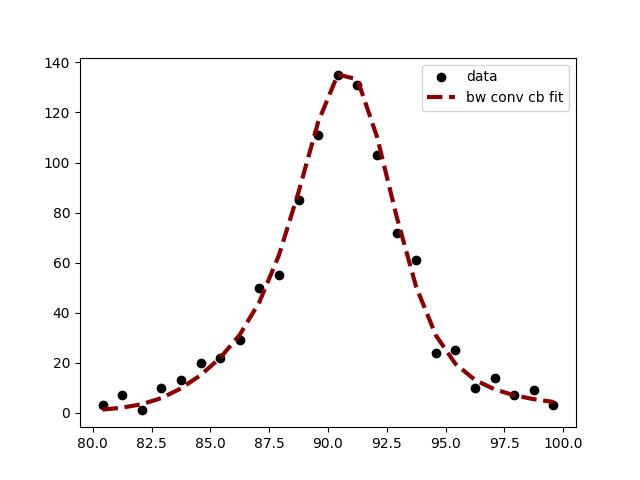
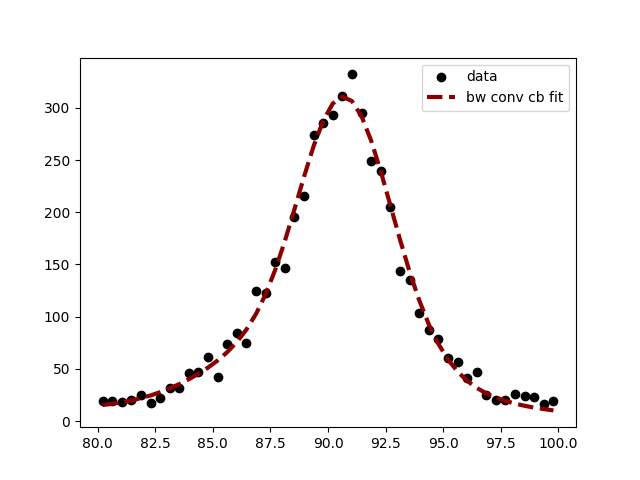
update

diff --git a/computer_vision_test/unet/train.py b/computer_vision_test/unet/train.py
@@ -8,6 +8,7 @@ from torch.nn import BCEWithLogitsLoss
 from torch.optim import Adam
 from torch.optim import AdamW
 from torch.utils.data import DataLoader
+import pytorch_lightning as pl
 from sklearn.model_selection import train_test_split
 from torchvision import transforms
 from imutils import paths
@@ -20,22 +21,29 @@ import os
 
 def main():
 
+    ## setup ##
+
+    # locate images and masks
     imagePaths = sorted(list(paths.list_images(config.PATH_IMAGE_DATASET)))
     maskPaths = sorted(list(paths.list_images(config.PATH_MASK_DATASET)))
 
+    # split the data
     split = train_test_split(imagePaths, maskPaths,
         test_size=config.TEST_SPLIT, random_state=42)
 
     (trainImages, testImages) = split[:2]
     (trainMasks, testMasks) = split[2:]
 
+    # make a list of images to use as test
     f = open(config.PATHS_TEST, "w")
     f.write("\n".join(testImages))
     f.close()
 
+    # define transformations
     transformations = transforms.Compose([transforms.ToPILImage(),
         transforms.Resize((config.INPUT_IMAGE_HEIGHT, config.INPUT_IMAGE_WIDTH)), transforms.ToTensor()])
 
+    # setup the datasets
     trainDS = SegmentationDataset(imagePaths=trainImages, maskPaths=trainMasks, transforms=transformations)
     testDS = SegmentationDataset(imagePaths=testImages, maskPaths=testMasks, transforms=transformations)
 
@@ -45,73 +53,22 @@ def main():
     trainLoader = DataLoader(trainDS, shuffle=True, batch_size=config.BATCH_SIZE, pin_memory=config.PIN_MEMORY, num_workers=os.cpu_count())
     testLoader = DataLoader(testDS, shuffle=False, batch_size=config.BATCH_SIZE, pin_memory=config.PIN_MEMORY, num_workers=os.cpu_count())
 
-    unet = UNet().to(config.DEVICE)
+    unet = UNet()
 
-    lossFunc = BCEWithLogitsLoss()
-    opt = Adam(unet.parameters(), lr=config.INIT_LR)
-
-    trainSteps = len(trainDS) // config.BATCH_SIZE
-    testSteps = len(testDS) // config.BATCH_SIZE
-
-    H = {"train_loss": [], "test_loss":[]}
+    trainer = pl.Trainer(max_epochs=config.NUM_EPOCHS)
 
     print("[INFO] training the network ...")
     startTime = time.time()
 
-    for e in tqdm(range(config.NUM_EPOCHS)):
-
-        unet.train()
-
-        totalTrainLoss = 0.
-        totalTestLoss = 0.
-
-        for (i, (x,y)) in enumerate(trainLoader):
-
-            (x,y) = (x.to(config.DEVICE), y.to(config.DEVICE))
-
-            pred = unet(x)
-            loss = lossFunc(pred,y)
-
-            opt.zero_grad()
-            loss.backward()
-            opt.step()
-
-            totalTrainLoss += loss
-
-        with torch.no_grad():
-            unet.eval()
-
-            for (i,(x,y)) in enumerate(testLoader):
-
-                (x,y) = (x.to(config.DEVICE), y.to(config.DEVICE))
-
-                pred = unet(x)
-                totalTestLoss += lossFunc(pred,y)
-
-    
-        avgTrainLoss = totalTrainLoss / trainSteps
-        avgTestLoss = totalTestLoss / testSteps
-
-        H["train_loss"].append(avgTrainLoss.cpu().detach().numpy())
-        H["test_loss"].append(avgTestLoss.cpu().detach().numpy())
-
-        print(f"[INFO] epoch: {e+1}/{config.NUM_EPOCHS}")
-        print(f"Train Loss: {avgTrainLoss:.6f}, Test Loss: {avgTestLoss:.4f}")
+    trainer.fit(unet, train_dataloaders=trainLoader)
 
     endTime = time.time()
     print(f'[INFO] total time to train the model: {endTime-startTime:.2f} s')
 
-    plt.style.use("ggplot")
-    plt.figure()
-    plt.plot(H["train_loss"], label="train_loss")
-    plt.plot(H["test_loss"], label="test_loss")
-    plt.title("Training Loss on Dataset")
-    plt.xlabel("Epoch")
-    plt.ylabel("Loss")
-    plt.legend(loc="lower left")
-    plt.savefig(config.PATH_PLOT)
+    
 
-    torch.save(unet, config.PATH_MODEL)
+    # here we test
+    trainer.test(dataloaders=testLoader)
 
 
 

diff --git a/bw_conv_cb/python/fit.py b/bw_conv_cb/python/fit.py
@@ -3,7 +3,6 @@ import crystalBall
 import numpy as np
 from scipy.optimize import minimize
 from scipy.special import xlogy
-from scipy.signal import fftconvolve
 import matplotlib.pyplot as plt
 
 def get_chi_sqr(a, b):
@@ -30,13 +29,14 @@ def target(guess, chi_sqr=False):
 
     thisBW.update(guess[0])
     thisCB.update(guess[1::])
-    y_vals = np.convolve(thisBW.y,thisCB.y,mode='same')
+    y_vals = np.convolve(thisBW.y,thisCB.y, mode='same')
     y_vals = y_vals/np.sum(y_vals)
 
     if chi_sqr:
         return get_chi_sqr(_DATA_, y_vals)
 
-    return NLL(_DATA_,y_vals) * get_chi_sqr(_DATA_, y_vals)
+    ret = NLL(_DATA_,y_vals) * get_chi_sqr(_DATA_, y_vals)
+    return ret
 
 def scan(guess):
     global thisBW
@@ -48,7 +48,7 @@ def scan(guess):
     scan_cv = np.arange(85,93,0.01)
     scan_alpha = np.arange(0.1,100,0.5)
     scan_n = np.arange(0.1,10,0.5)
-    scan_mean = np.arange(-5,5,0.025)
+    scan_mean = np.arange(-2,2,0.025)
     scan_width = np.arange(0.1,10,0.1)
 
     guesses_cv = [[x, ret[1], ret[2], ret[3], ret[4]] for x in scan_cv]
@@ -121,9 +121,9 @@ def fit(x,y):
     cv = 91.188
     mean = 91.188 - np.average(x,weights=y)
     width = np.sqrt(np.average(np.multiply(x-np.average(x,weights=y),x-np.average(x,weights=y)), weights=y))
-    guess = [cv, 1.424,1.86,mean,width]
+    guess = [cv, 1.2, 1.46,mean,width]
 
-    bounds = [(86, 92), (0.01,100), (0.01,10), (-5,5), (0.1,10)]
+    bounds = [(87, 92), (0.1,10), (0.1,20), (-2,3), (0.1,10)]
 
     thisBW = breitWigner.bw(x)
     thisCB = crystalBall.cb(x, guess)
@@ -137,8 +137,9 @@ def fit(x,y):
             )
 
     #print(result)
-    if not result.success:
-        raise Exception
+    #if not result.success:
+        #print(result)
+        #raise Exception
 
     thisBW.update(result.x[0])
     thisCB.update(result.x[1::])
@@ -148,9 +149,8 @@ def fit(x,y):
     chi_sqr = np.sum(np.divide(np.multiply(y-y_vals,y-y_vals),y))/(len(y)-len(result.x))
     #uncertainties = errors(result.x) 
     
-    """
+    
     print("plotting")
-    print(y)
 
     fig,axs = plt.subplots(ncols=1,nrows=1) 
     axs.scatter(x,
@@ -167,8 +167,7 @@ def fit(x,y):
     axs.legend(loc='best')
     fig.savefig("fit.png")
     plt.close(fig)
-    """
     
-    #return result.x[0]+result.x[3], np.sqrt(np.max(np.abs(uncertainties[0]))**2 + np.max(np.abs(uncertainties[3]))**2 ), chi_sqr
-    return result.x[0]+result.x[3], chi_sqr
+    
+    return result, chi_sqr
     

diff --git a/bw_conv_cb/python/bw_conv_cb.py b/bw_conv_cb/python/bw_conv_cb.py
@@ -17,8 +17,8 @@ def main():
     cdf = cdf / cdf[-1]
 
     count = 0
-    m = 1
-    n = 1000
+    m = 10
+    n = 5000
     for i in range(m):
         if i+1 % 100 == 0:
             print(f"{i+1}/{m}   ")
@@ -26,16 +26,17 @@ def main():
         value_bins = np.searchsorted(cdf, values)
         random_from_cdf = [x_vals[x] for x in value_bins]
 
-        y_vals, bins = np.histogram(random_from_cdf, bins=24, range=(80, 100))
+        y_vals, bins = np.histogram(random_from_cdf, bins=48, range=(80, 100))
         new_x_vals = [(bins[i]+bins[i+1])/2 for i in range(len(bins)-1)]
 
-        try:
-            x, x_err, chi = fit.fit(new_x_vals, y_vals)
-            print(f"fit quality: {chi:.2f}")
-        except Exception:
-            count += 1
+        result, chi = fit.fit(new_x_vals, y_vals)
+        count += result.success
+        if not result.success:
+            print(result)
+        print(f"fit quality: {chi:.2f}")
+        #print(result.x[0]+result.x[3])
 
-    print(f"the fit has a {100*(m - count)/m}% success rate at {n =}" )
+    print(f"success rate: {100*count/m}%")
 
 
 if __name__ == '__main__':

diff --git a/computer_vision_test/unet/pyimagesearch/model.py b/computer_vision_test/unet/pyimagesearch/model.py
@@ -11,6 +11,8 @@ from torch.nn import functional as F
 from torchvision.transforms import CenterCrop
 import torch
 
+import pytorch_lightning as pl
+
 
 class Block(Module):
     def __init__(self, inChannels, outChannels):
@@ -90,7 +92,7 @@ class Decoder(Module):
         return x
 
     
-class UNet(Module):
+class UNet(pl.LightningModule):
     def __init__(self, encChannels=config.UNET_ENC_CHANNELS, 
                        decChannels=config.UNET_DEC_CHANNELS,
                        nbClasses=config.UNET_NUM_CLASSES,
@@ -120,5 +122,15 @@ class UNet(Module):
             map = F.interpolate(map, self.outSize)
 
         return map
+
+    def training_step(self, batch, batch_idx):
+        x, y = batch
+        y_hat = self(x) # these are the values predicted by the UNet
+        loss = config.UNET_LOSS(y_hat, y)
+        self.log("train_loss", loss, on_step=True, on_epoch=True, prog_bar=True)
+        return loss
+
+    def configure_optimizers(self):
+        return torch.optim.Adam(self.parameters(), lr=config.INIT_LR)
 
 

diff --git a/computer_vision_test/unet/pyimagesearch/config.py b/computer_vision_test/unet/pyimagesearch/config.py
@@ -42,6 +42,8 @@ UNET_ENC_CHANNELS = (3,8,16,32,64)
 UNET_DEC_CHANNELS = (64,32,16,8)
 UNET_NUM_CLASSES = 1
 
+UNET_LOSS = torch.nn.BCEWithLogitsLoss()
+
 NUM_CHANNELS = 1
 NUM_CLASSES = 1
 NUM_LEVELS = 1
